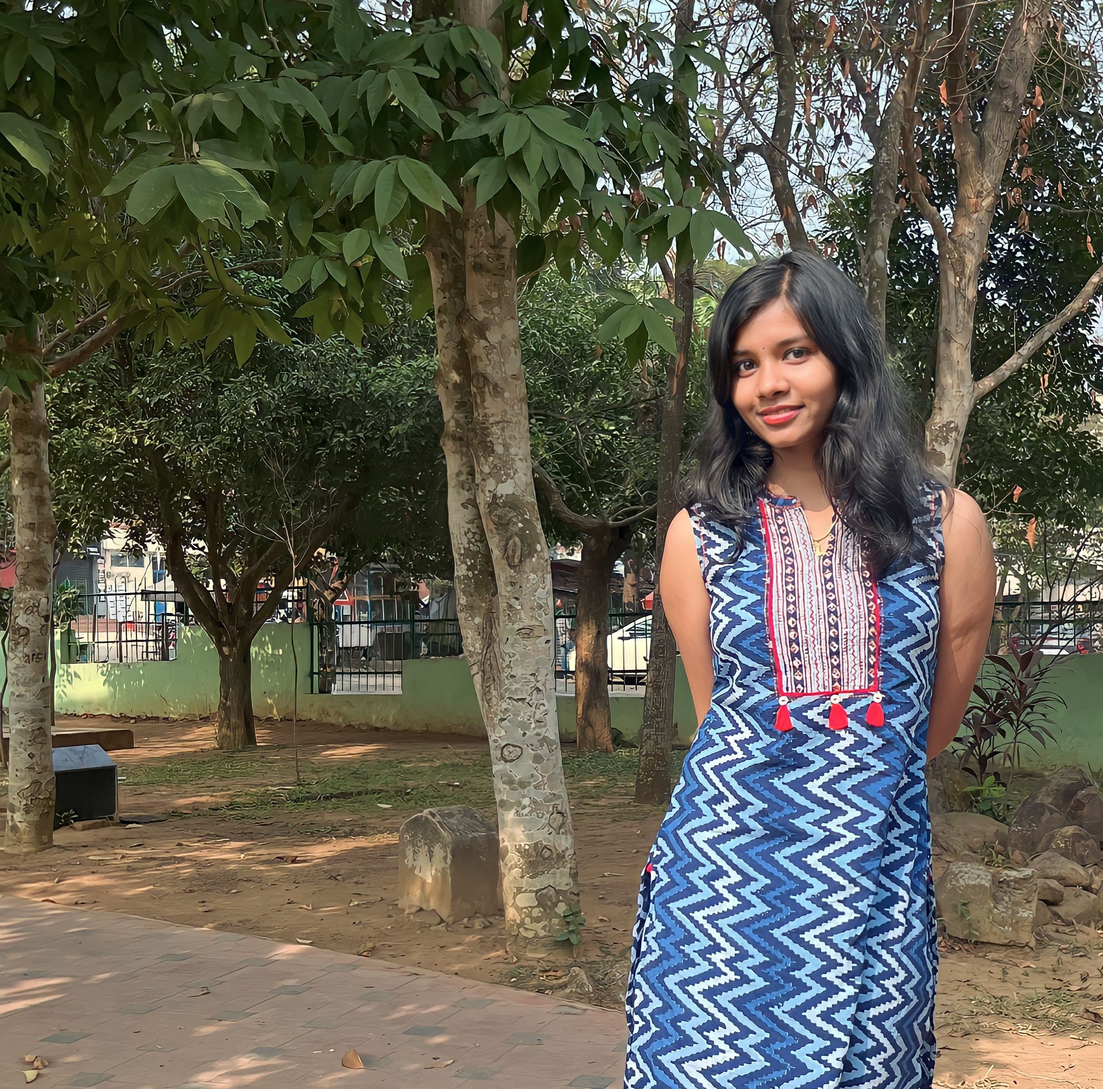
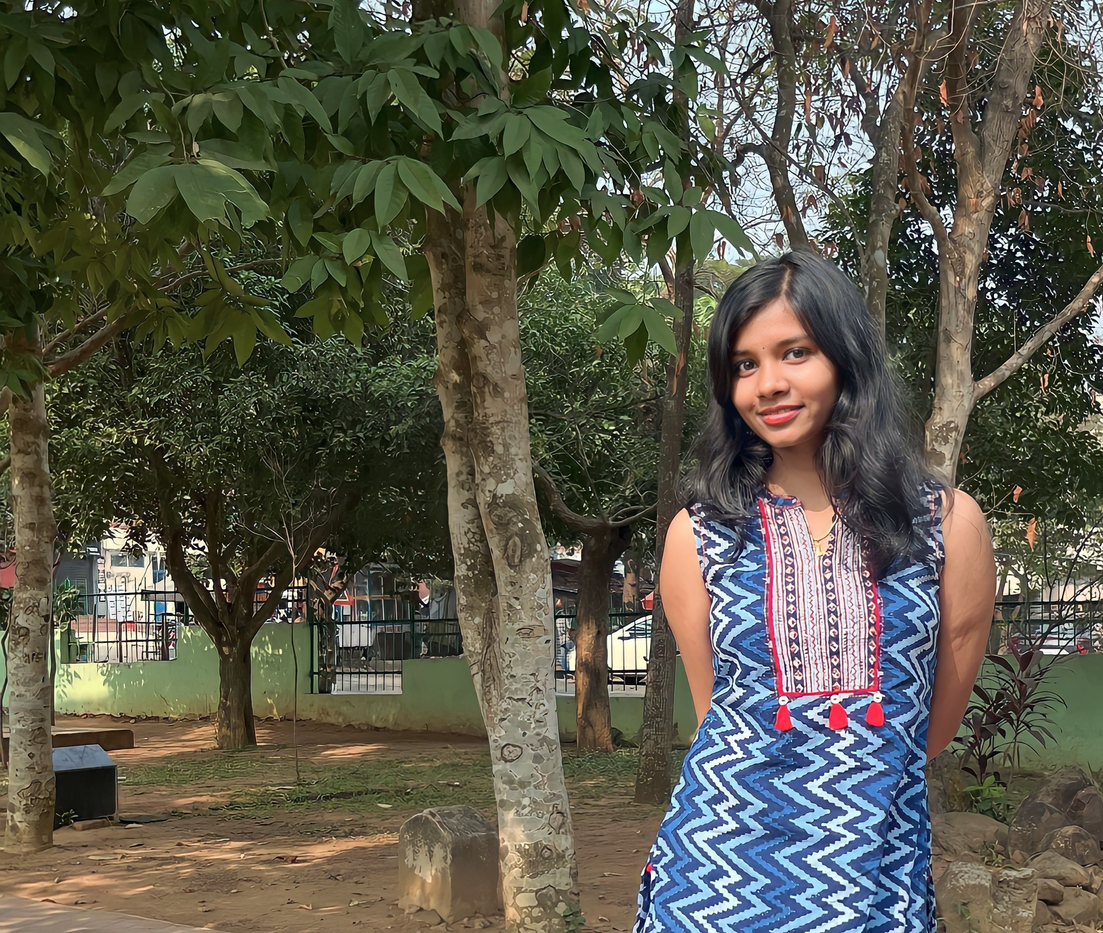
Index.html updated

diff --git a/MyResume/index.html b/MyResume/index.html
@@ -85,8 +85,8 @@
 
     <main class="main">
       <!-- Hero Section -->
-      <section id="hero" class="p-0 hero section light-background">
-        <img src="assets/img/PIC1.jpg" alt="" />
+      <section id="hero" class="hero section light-background">
+        <img src="assets/img/PIC2.jpg" alt="" />
 
         <div class="container" data-aos="zoom-out">
           <div class="row justify-content-center">
@@ -120,10 +120,10 @@
         <div class="container" data-aos="fade-up" data-aos-delay="100">
           <div class="row gy-4 justify-content-center">
             <div class="col-lg-4">
-              <img src="assets/img/profile-img.jpg" class="img-fluid" alt="" />
+              <img src="assets/img/PIC.jpg" class="img-fluid" alt="" />
             </div>
             <div class="col-lg-8 content">
-              <h2>UI/UX Designer &amp; Web Developer.</h2>
+              <h2>Web Developer.</h2>
               <p class="fst-italic py-3">
                 Lorem ipsum dolor sit amet, consectetur adipiscing elit, sed do
                 eiusmod tempor incididunt ut labore et dolore magna aliqua.
@@ -182,78 +182,6 @@
         </div>
       </section>
       <!-- /About Section -->
-
-      <!-- Stats Section -->
-      <section id="stats" class="stats section">
-        <div class="container" data-aos="fade-up" data-aos-delay="100">
-          <div class="row gy-4">
-            <div
-              class="col-lg-3 col-md-6 d-flex flex-column align-items-center"
-            >
-              <i class="bi bi-emoji-smile"></i>
-              <div class="stats-item">
-                <span
-                  data-purecounter-start="0"
-                  data-purecounter-end="232"
-                  data-purecounter-duration="1"
-                  class="purecounter"
-                ></span>
-                <p>Happy Clients</p>
-              </div>
-            </div>
-            <!-- End Stats Item -->
-
-            <div
-              class="col-lg-3 col-md-6 d-flex flex-column align-items-center"
-            >
-              <i class="bi bi-journal-richtext"></i>
-              <div class="stats-item">
-                <span
-                  data-purecounter-start="0"
-                  data-purecounter-end="521"
-                  data-purecounter-duration="1"
-                  class="purecounter"
-                ></span>
-                <p>Projects</p>
-              </div>
-            </div>
-            <!-- End Stats Item -->
-
-            <div
-              class="col-lg-3 col-md-6 d-flex flex-column align-items-center"
-            >
-              <i class="bi bi-headset"></i>
-              <div class="stats-item">
-                <span
-                  data-purecounter-start="0"
-                  data-purecounter-end="1463"
-                  data-purecounter-duration="1"
-                  class="purecounter"
-                ></span>
-                <p>Hours Of Support</p>
-              </div>
-            </div>
-            <!-- End Stats Item -->
-
-            <div
-              class="col-lg-3 col-md-6 d-flex flex-column align-items-center"
-            >
-              <i class="bi bi-people"></i>
-              <div class="stats-item">
-                <span
-                  data-purecounter-start="0"
-                  data-purecounter-end="15"
-                  data-purecounter-duration="1"
-                  class="purecounter"
-                ></span>
-                <p>Hard Workers</p>
-              </div>
-            </div>
-            <!-- End Stats Item -->
-          </div>
-        </div>
-      </section>
-      <!-- /Stats Section -->
 
       <!-- Skills Section -->
       <section id="skills" class="skills section">
